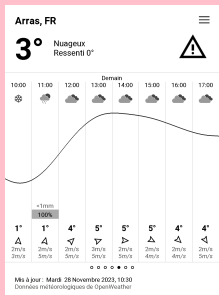
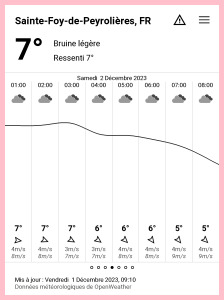
Resize and move alerts button
Refs: #86

diff --git a/src/ui.cc b/src/ui.cc
@@ -23,20 +23,28 @@ Ui::Ui(std::shared_ptr<Config> config, std::shared_ptr<Model> model)
   SetPanelType(PANEL_DISABLED);
   SetOrientation(0);
 
-  this->location_box =
-      std::make_shared<LocationBox>(0, 0, this->model, this->fonts);
+  auto menu_button = std::make_shared<MenuButton>(
+      Ui::menu_button_icon_size, this->model, this->icons, this->fonts);
+  menu_button->set_pos_x(ScreenWidth() - menu_button->get_width() -
+                         Ui::button_margin);
+  menu_button->set_pos_y(Ui::button_margin);
+  menu_button->set_menu_handler(&handle_menu_item_selected);
 
   this->alert_viewer = std::make_shared<AlertViewer>(model, this->fonts);
 
   auto alerts_button = std::make_shared<AlertsButton>(
-      Ui::alert_icon_size, model, this->icons, this->alert_viewer);
-  const auto alerts_button_pos_x =
-      ScreenWidth() - alerts_button->get_width() - Ui::button_margin;
+      Ui::alert_button_icon_size, model, this->icons, this->alert_viewer);
+  alerts_button->set_pos_x(menu_button->get_pos_x() -
+                           alerts_button->get_width() - Ui::button_margin);
+  alerts_button->set_pos_y(Ui::button_margin);
 
-  const auto current_condition_box_width = alerts_button_pos_x;
+  this->location_box =
+      std::make_shared<LocationBox>(0, 0, this->model, this->fonts);
+
   auto current_condition_box = std::make_shared<CurrentConditionBox>(
-      0, this->location_box->get_height(), current_condition_box_width,
-      this->model, this->fonts);
+      0, this->location_box->get_height(), ScreenWidth(), this->model,
+      this->fonts);
+
   auto status_bar = std::make_shared<StatusBar>(this->model, this->fonts);
 
   const auto remaining_height = status_bar->get_pos_y() -
@@ -49,30 +57,15 @@ Ui::Ui(std::shared_ptr<Config> config, std::shared_ptr<Model> model)
       current_condition_box->get_pos_y() + current_condition_box->get_height(),
       ScreenWidth(), remaining_height, this->model, this->icons, this->fonts);
 
-  auto menu_button =
-      std::make_shared<MenuButton>(this->model, this->icons, this->fonts);
-  menu_button->set_pos_x(ScreenWidth() - menu_button->get_width() -
-                         Ui::button_margin);
-  menu_button->set_pos_y(Ui::button_margin);
-  menu_button->set_menu_handler(&handle_menu_item_selected);
-
-  const auto &current_condition_bounding_box =
-      current_condition_box->get_bounding_box();
-
-  alerts_button->set_pos_x(alerts_button_pos_x);
-  alerts_button->set_pos_y(current_condition_bounding_box.y +
-                           current_condition_bounding_box.h / 2 -
-                           alerts_button->get_height() / 2);
-
-  this->location_selector =
-      std::make_shared<LocationSelector>(50, this->fonts, this->icons);
+  this->location_selector = std::make_shared<LocationSelector>(
+      this->location_selector_icon_size, this->fonts, this->icons);
 
   this->modals.push_back(this->alert_viewer);
 
   this->children.push_back(this->location_box);
+  this->children.push_back(alerts_button);
   this->children.push_back(menu_button);
   this->children.push_back(current_condition_box);
-  this->children.push_back(alerts_button);
   this->children.push_back(this->forecast_stack);
   this->children.push_back(status_bar);
 

diff --git a/src/menu.cc b/src/menu.cc
@@ -6,10 +6,10 @@
 
 namespace taranis {
 
-MenuButton::MenuButton(std::shared_ptr<Model> model,
+MenuButton::MenuButton(int icon_size, std::shared_ptr<Model> model,
                        std::shared_ptr<Icons> icons,
                        std::shared_ptr<Fonts> fonts)
-    : Button{MenuButton::icon_size, icons->get("menu")}, icons{icons},
+    : Button{icon_size, icons->get("menu")}, icons{icons},
       items{imenuex{ITEM_ACTIVE, taranis::MENU_ITEM_REFRESH, nullptr, nullptr,
                     nullptr, nullptr, nullptr},
             imenuex{ITEM_SUBMENU, taranis::MENU_ITEM_LOCATION_HISTORY, nullptr,

diff --git a/src/menu.h b/src/menu.h
@@ -29,8 +29,8 @@ enum menu_item_index {
 
 class MenuButton : public Button {
 public:
-  MenuButton(std::shared_ptr<Model> model, std::shared_ptr<Icons> icons,
-             std::shared_ptr<Fonts> fonts);
+  MenuButton(int icon_size, std::shared_ptr<Model> model,
+             std::shared_ptr<Icons> icons, std::shared_ptr<Fonts> fonts);
 
   void set_menu_handler(iv_menuhandler handler);
 
@@ -45,7 +45,6 @@ private:
   typedef std::array<imenuex, 5> MenuItems;
 
   static const int padding{5};
-  static const int icon_size{70};
 
   std::shared_ptr<Icons> icons;
 

diff --git a/src/ui.h b/src/ui.h
@@ -51,7 +51,9 @@ public:
   void generate_logo_maybe() const;
 
 private:
-  static constexpr int alert_icon_size{150};
+  static constexpr int alert_button_icon_size{70};
+  static constexpr int menu_button_icon_size{70};
+  static constexpr int location_selector_icon_size{50};
   static constexpr int button_margin{25};
 
   std::shared_ptr<Config> config;

diff --git a/NEWS.md b/NEWS.md
@@ -15,6 +15,9 @@ adheres to [Semantic Versioning](https://semver.org/spec/v2.0.0.html).
 
 ### Changed
 
+- Alerts button has been resized and moved to free space for current
+  weather box [#86](https://github.com/orontee/taranis/issues/86)
+
 ### Removed
 
 ## [1.7.0 - 2023-12-31]
